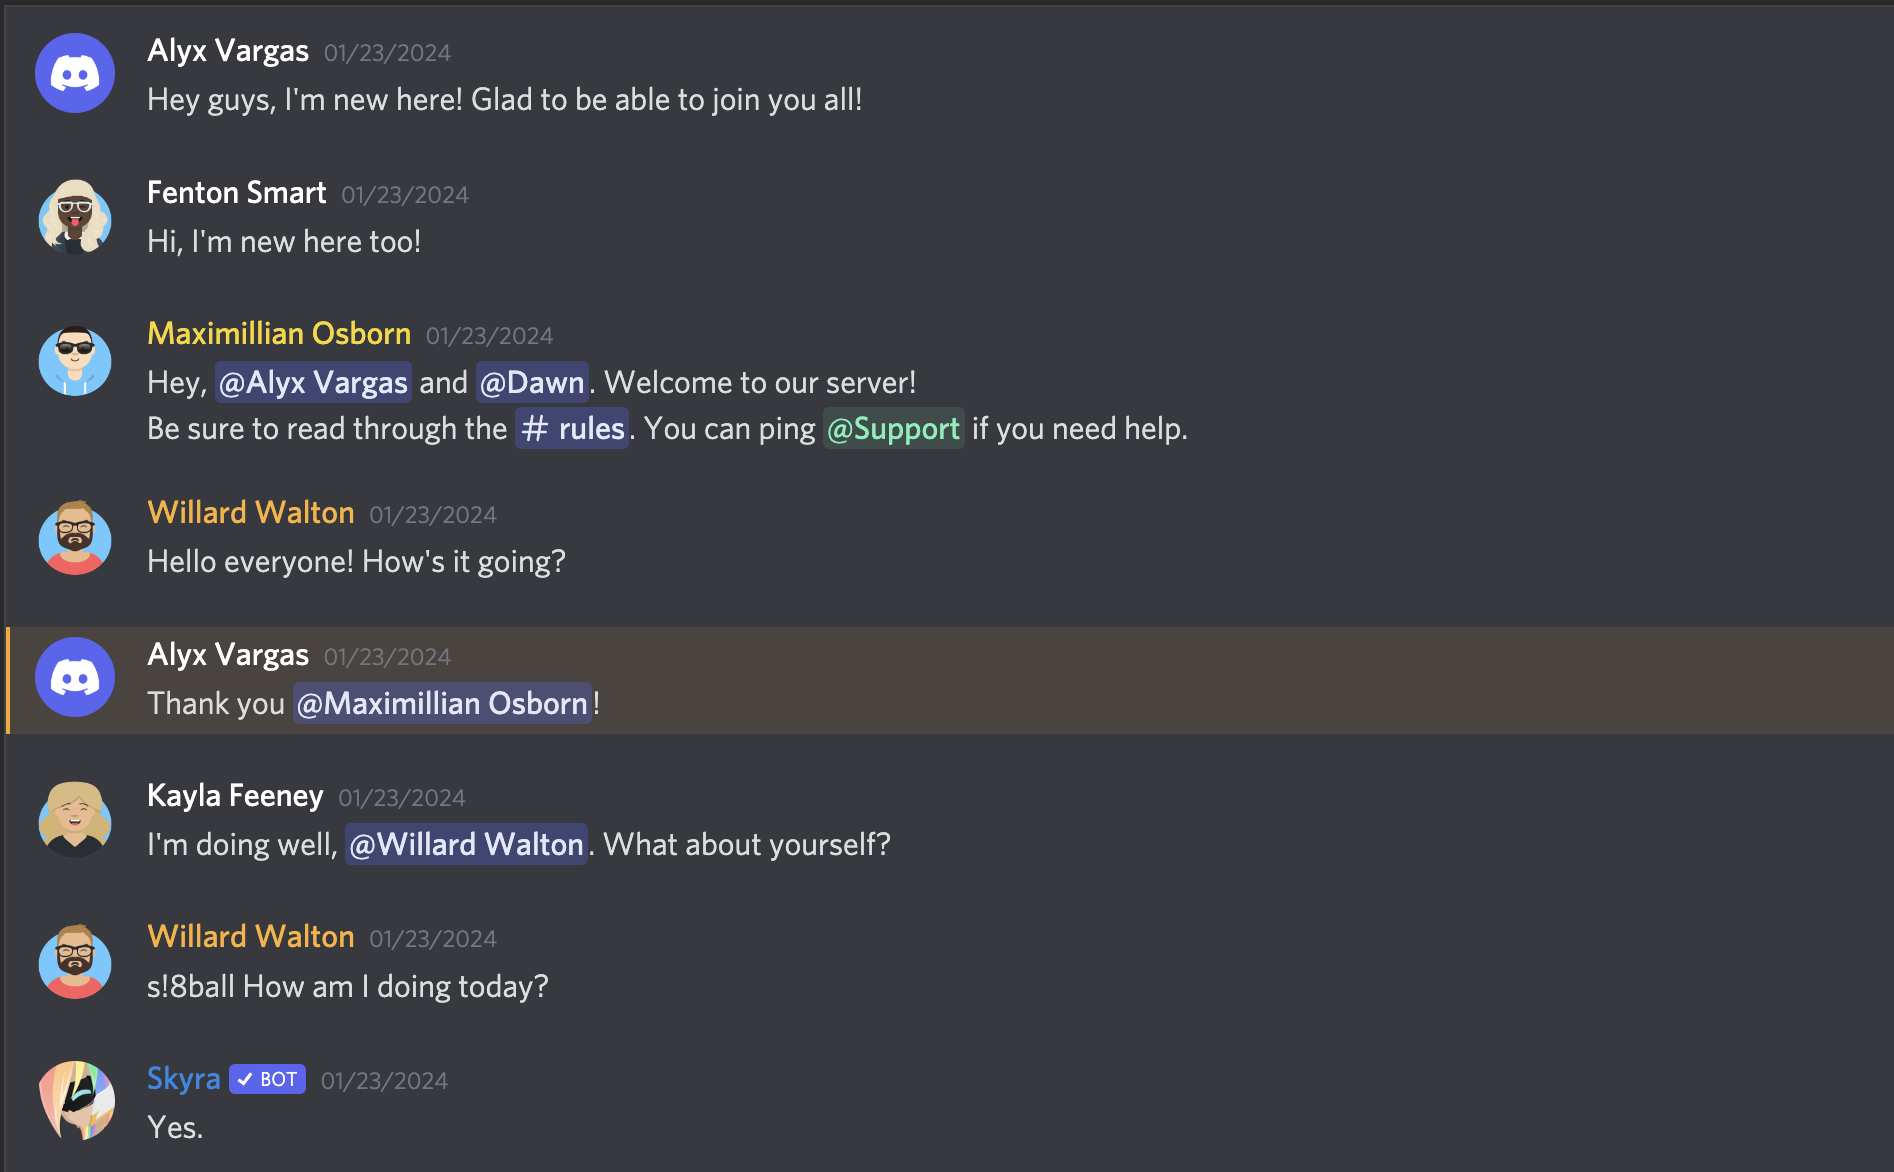
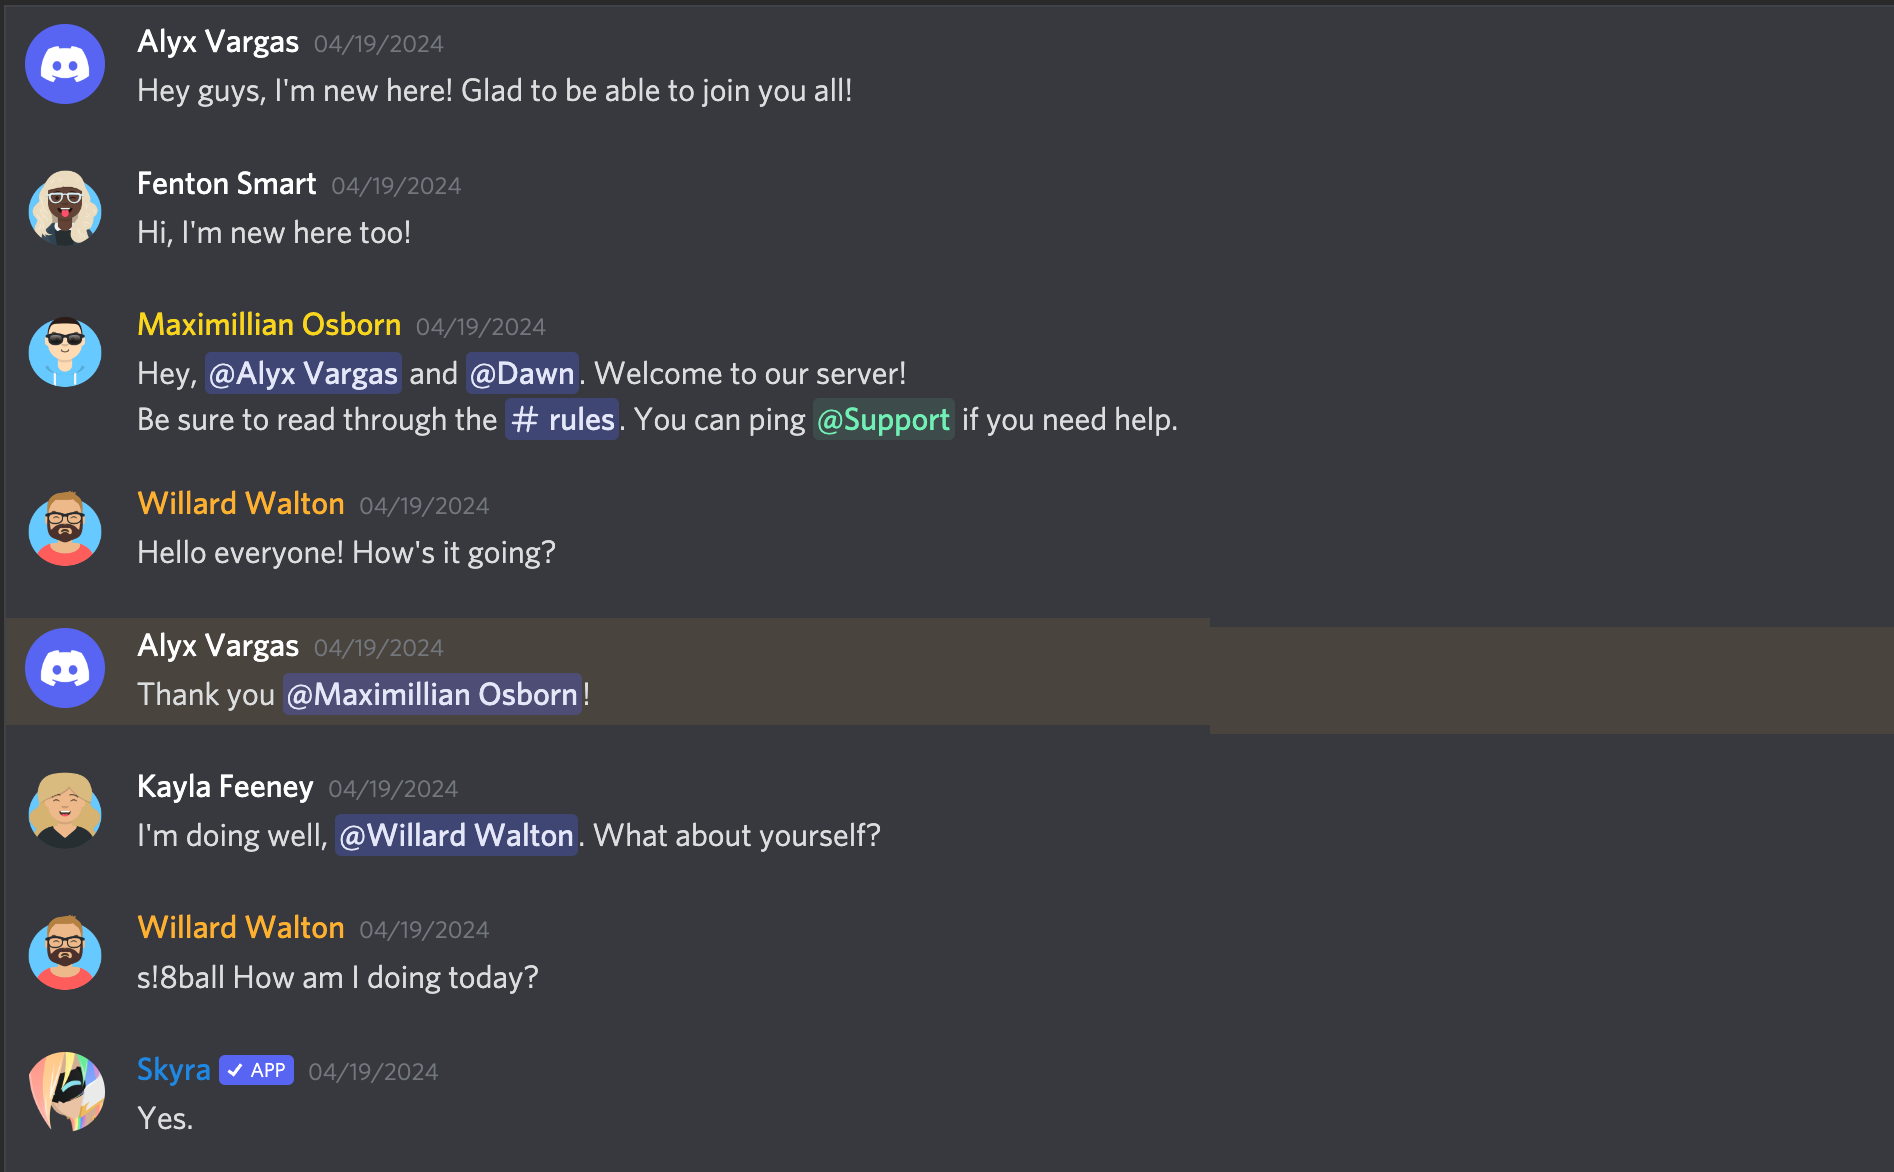
fix: change `bot` to `app` following Discord's change of the label (#394)

diff --git a/packages/core/src/components/discord-thread-message/DiscordThreadMessage.ts b/packages/core/src/components/discord-thread-message/DiscordThreadMessage.ts
@@ -166,7 +166,7 @@ export class DiscordThreadMessage extends LitElement implements LightTheme {
 		return html`<img src=${ifDefined(profile.avatar)} class="discord-thread-message-avatar" alt=${ifDefined(profile.author)} />
 			${html`
 				${profile.bot && !profile.server
-					? html`<span class="discord-application-tag"> ${profile.verified ? VerifiedTick() : null} Bot </span>`
+					? html`<span class="discord-application-tag"> ${profile.verified ? VerifiedTick() : null} App </span>`
 					: null}
 				${profile.server && !profile.bot ? html`<span class="discord-application-tag">Server</span>` : null}
 			`}

diff --git a/packages/core/src/components/discord-author-info/DiscordAuthorInfo.ts b/packages/core/src/components/discord-author-info/DiscordAuthorInfo.ts
@@ -166,7 +166,7 @@ export class DiscordAuthorInfo extends LitElement {
 					draggable="false"
 				/>`
 			: null}
-		${this.bot && !this.server ? html`<span class="discord-application-tag">${this.verified ? VerifiedTick() : null} Bot</span>` : null}
+		${this.bot && !this.server ? html`<span class="discord-application-tag">${this.verified ? VerifiedTick() : null} App</span>` : null}
 		${this.server && !this.bot ? html`<span class="discord-application-tag">Server</span>` : null}
 		${this.op ? html`<span class="discord-application-tag discord-application-tag-op">OP</span>` : null}
 		${this.compactMode

diff --git a/packages/core/src/components/discord-reply/DiscordReply.ts b/packages/core/src/components/discord-reply/DiscordReply.ts
@@ -322,7 +322,7 @@ export class DiscordReply extends LitElement implements LightTheme {
 			() =>
 				html`${html`
 						${profile.bot && !profile.server
-							? html`<span class="discord-application-tag">${profile.verified ? VerifiedTick() : ''}Bot</span>`
+							? html`<span class="discord-application-tag">${profile.verified ? VerifiedTick() : ''}App</span>`
 							: null}
 						${profile.server && !profile.bot ? html`<span class="discord-application-tag">Server</span>` : ''}
 						${profile.op ? html`<span class="discord-application-tag discord-application-tag-op">OP</span>` : ''}

diff --git a/packages/core/src/components/svgs/VerifiedTick.ts b/packages/core/src/components/svgs/VerifiedTick.ts
@@ -9,7 +9,7 @@ export default function VerifiedTick(props: Record<string, unknown> = {}) {
 	return html`<svg
 		${spread(props)}
 		class="discord-application-tag-verified"
-		aria-label="Verified Bot"
+		aria-label="Verified App"
 		aria-hidden="false"
 		width="16"
 		height="16"
